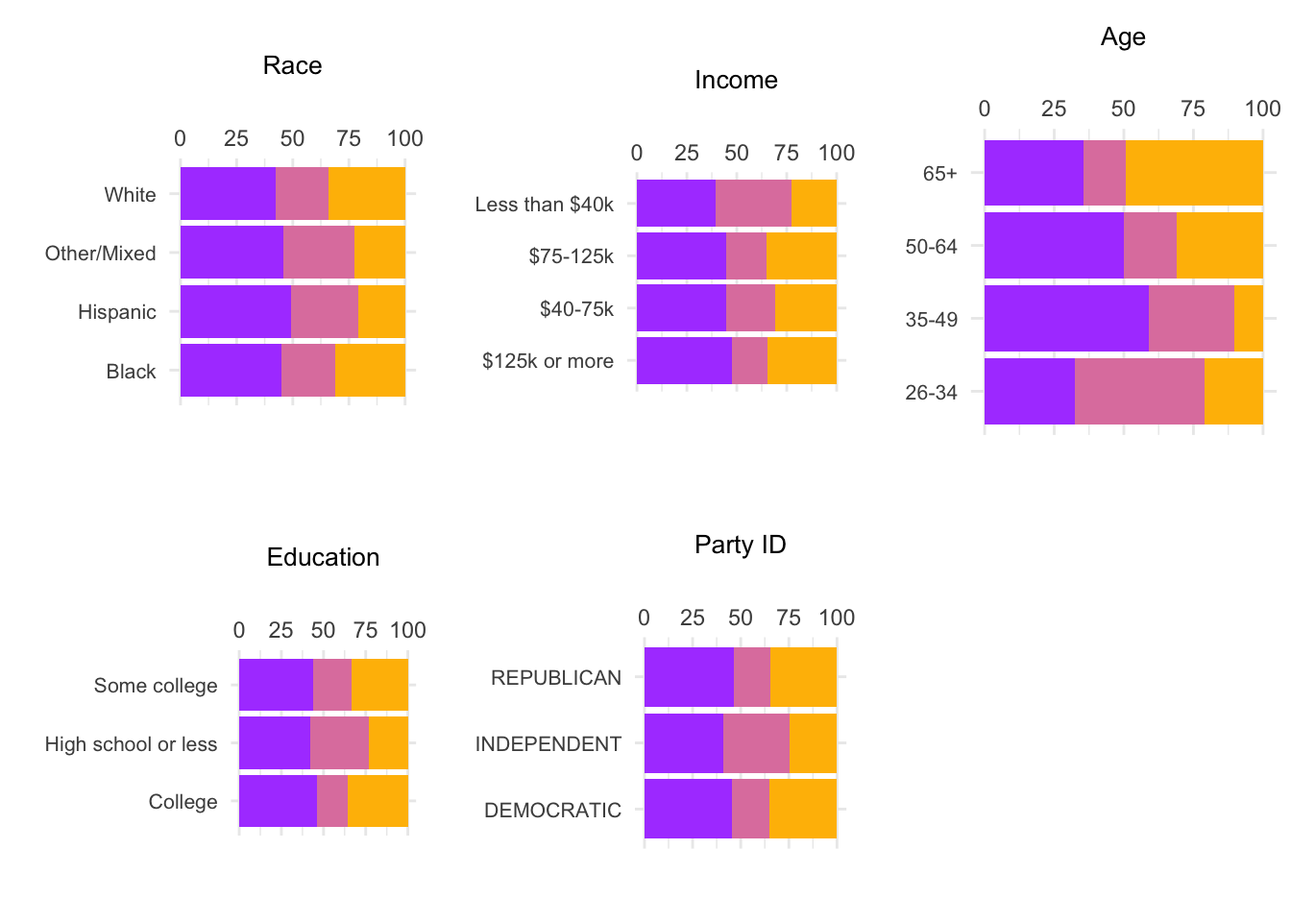
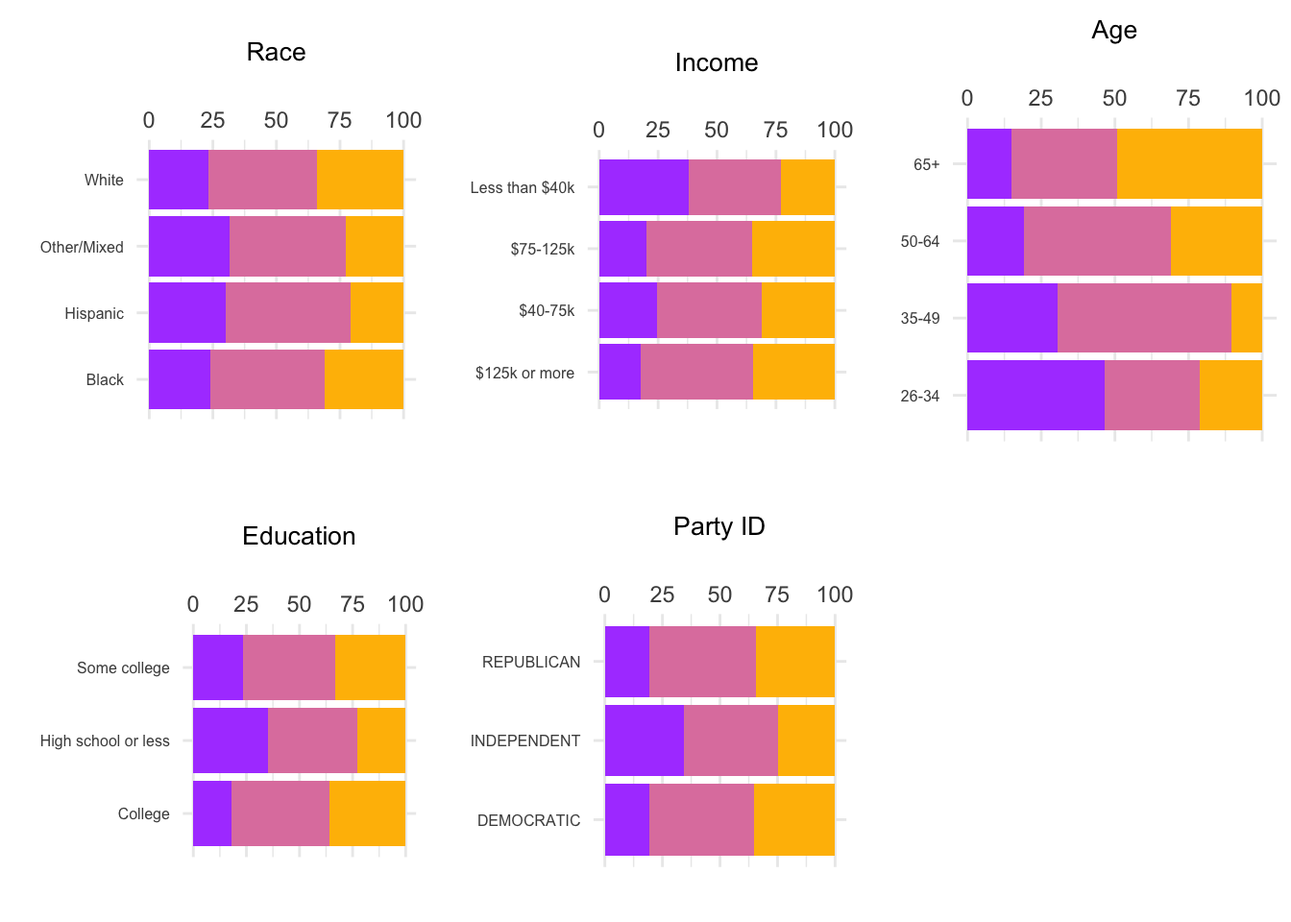
minor

diff --git a/docs/presentation-exercise/presentation-exercise.html b/docs/presentation-exercise/presentation-exercise.html
@@ -219,7 +219,7 @@ pre > code.sourceCode > span > a:first-child::before { text-decoration: underlin
 <span id="cb1-10"><a href="#cb1-10" aria-hidden="true" tabindex="-1"></a></span>
 <span id="cb1-11"><a href="#cb1-11" aria-hidden="true" tabindex="-1"></a><span class="co"># Read the CSV file without displaying column types</span></span>
 <span id="cb1-12"><a href="#cb1-12" aria-hidden="true" tabindex="-1"></a><span class="fu">suppressMessages</span>({</span>
-<span id="cb1-13"><a href="#cb1-13" aria-hidden="true" tabindex="-1"></a>  nonvoters <span class="ot">&lt;-</span> <span class="fu">read_csv</span>(<span class="st">"nonvoters_data.csv"</span>, <span class="at">show_col_types =</span> <span class="cn">FALSE</span>)</span>
+<span id="cb1-13"><a href="#cb1-13" aria-hidden="true" tabindex="-1"></a>  nonvoters <span class="ot">&lt;-</span> <span class="fu">read_csv</span>(<span class="st">"nonvoters_data1.csv"</span>, <span class="at">show_col_types =</span> <span class="cn">FALSE</span>)</span>
 <span id="cb1-14"><a href="#cb1-14" aria-hidden="true" tabindex="-1"></a>})</span></code><button title="Copy to Clipboard" class="code-copy-button"><i class="bi"></i></button></pre></div>
 </div>
 <div class="cell">
@@ -245,8 +245,8 @@ pre > code.sourceCode > span > a:first-child::before { text-decoration: underlin
 <span id="cb3-4"><a href="#cb3-4" aria-hidden="true" tabindex="-1"></a><span class="co"># Centered title theme</span></span>
 <span id="cb3-5"><a href="#cb3-5" aria-hidden="true" tabindex="-1"></a>centered_title_theme <span class="ot">&lt;-</span> <span class="fu">theme</span>(</span>
 <span id="cb3-6"><a href="#cb3-6" aria-hidden="true" tabindex="-1"></a>  <span class="at">plot.title =</span> <span class="fu">element_text</span>(<span class="at">hjust =</span> <span class="fl">0.5</span>, <span class="at">size =</span> <span class="dv">10</span>),  <span class="co"># Set title size to 10</span></span>
-<span id="cb3-7"><a href="#cb3-7" aria-hidden="true" tabindex="-1"></a>  <span class="at">axis.text.y =</span> <span class="fu">element_text</span>(<span class="at">size =</span> <span class="dv">8</span>),  <span class="co"># Set y-axis text size to 8</span></span>
-<span id="cb3-8"><a href="#cb3-8" aria-hidden="true" tabindex="-1"></a>  <span class="at">axis.title =</span> <span class="fu">element_text</span>(<span class="at">size =</span> <span class="dv">10</span>)  <span class="co"># Set axis title size to 10</span></span>
+<span id="cb3-7"><a href="#cb3-7" aria-hidden="true" tabindex="-1"></a>  <span class="at">axis.text.y =</span> <span class="fu">element_text</span>(<span class="at">size =</span> <span class="dv">6</span>),  <span class="co"># Set y-axis text size to 8</span></span>
+<span id="cb3-8"><a href="#cb3-8" aria-hidden="true" tabindex="-1"></a>  <span class="at">axis.title =</span> <span class="fu">element_text</span>(<span class="at">size =</span> <span class="dv">8</span>)  <span class="co"># Set axis title size to 10</span></span>
 <span id="cb3-9"><a href="#cb3-9" aria-hidden="true" tabindex="-1"></a>)</span>
 <span id="cb3-10"><a href="#cb3-10" aria-hidden="true" tabindex="-1"></a></span>
 <span id="cb3-11"><a href="#cb3-11" aria-hidden="true" tabindex="-1"></a><span class="co"># Create individual plots</span></span>
@@ -362,7 +362,7 @@ pre > code.sourceCode > span > a:first-child::before { text-decoration: underlin
 <span id="cb5-24"><a href="#cb5-24" aria-hidden="true" tabindex="-1"></a><span class="co"># Print the flextable</span></span>
 <span id="cb5-25"><a href="#cb5-25" aria-hidden="true" tabindex="-1"></a>ft</span></code><button title="Copy to Clipboard" class="code-copy-button"><i class="bi"></i></button></pre></div>
 <div class="cell-output-display">
-<div class="tabwid"><style>.cl-171f96c2{}.cl-171bb0fc{font-family:'Helvetica';font-size:11pt;font-weight:normal;font-style:normal;text-decoration:none;color:rgba(0, 0, 0, 1.00);background-color:transparent;}.cl-171d8f76{margin:0;text-align:left;border-bottom: 0 solid rgba(0, 0, 0, 1.00);border-top: 0 solid rgba(0, 0, 0, 1.00);border-left: 0 solid rgba(0, 0, 0, 1.00);border-right: 0 solid rgba(0, 0, 0, 1.00);padding-bottom:5pt;padding-top:5pt;padding-left:5pt;padding-right:5pt;line-height: 1;background-color:transparent;}.cl-171d8f77{margin:0;text-align:right;border-bottom: 0 solid rgba(0, 0, 0, 1.00);border-top: 0 solid rgba(0, 0, 0, 1.00);border-left: 0 solid rgba(0, 0, 0, 1.00);border-right: 0 solid rgba(0, 0, 0, 1.00);padding-bottom:5pt;padding-top:5pt;padding-left:5pt;padding-right:5pt;line-height: 1;background-color:transparent;}.cl-171d97fa{width:0.75in;background-color:transparent;vertical-align: middle;border-bottom: 1.5pt solid rgba(102, 102, 102, 1.00);border-top: 1.5pt solid rgba(102, 102, 102, 1.00);border-left: 0 solid rgba(0, 0, 0, 1.00);border-right: 0 solid rgba(0, 0, 0, 1.00);margin-bottom:0;margin-top:0;margin-left:0;margin-right:0;}.cl-171d9804{width:0.75in;background-color:transparent;vertical-align: middle;border-bottom: 1.5pt solid rgba(102, 102, 102, 1.00);border-top: 1.5pt solid rgba(102, 102, 102, 1.00);border-left: 0 solid rgba(0, 0, 0, 1.00);border-right: 0 solid rgba(0, 0, 0, 1.00);margin-bottom:0;margin-top:0;margin-left:0;margin-right:0;}.cl-171d9805{width:0.75in;background-color:transparent;vertical-align: middle;border-bottom: 0 solid rgba(0, 0, 0, 1.00);border-top: 0 solid rgba(0, 0, 0, 1.00);border-left: 0 solid rgba(0, 0, 0, 1.00);border-right: 0 solid rgba(0, 0, 0, 1.00);margin-bottom:0;margin-top:0;margin-left:0;margin-right:0;}.cl-171d9806{width:0.75in;background-color:transparent;vertical-align: middle;border-bottom: 0 solid rgba(0, 0, 0, 1.00);border-top: 0 solid rgba(0, 0, 0, 1.00);border-left: 0 solid rgba(0, 0, 0, 1.00);border-right: 0 solid rgba(0, 0, 0, 1.00);margin-bottom:0;margin-top:0;margin-left:0;margin-right:0;}.cl-171d980e{width:0.75in;background-color:transparent;vertical-align: middle;border-bottom: 1.5pt solid rgba(102, 102, 102, 1.00);border-top: 0 solid rgba(0, 0, 0, 1.00);border-left: 0 solid rgba(0, 0, 0, 1.00);border-right: 0 solid rgba(0, 0, 0, 1.00);margin-bottom:0;margin-top:0;margin-left:0;margin-right:0;}.cl-171d980f{width:0.75in;background-color:transparent;vertical-align: middle;border-bottom: 1.5pt solid rgba(102, 102, 102, 1.00);border-top: 0 solid rgba(0, 0, 0, 1.00);border-left: 0 solid rgba(0, 0, 0, 1.00);border-right: 0 solid rgba(0, 0, 0, 1.00);margin-bottom:0;margin-top:0;margin-left:0;margin-right:0;}</style><table data-quarto-disable-processing="true" class="cl-171f96c2"><thead><tr style="overflow-wrap:break-word;"><th class="cl-171d97fa"><p class="cl-171d8f76"><span class="cl-171bb0fc">PLAYER</span></p></th><th class="cl-171d9804"><p class="cl-171d8f77"><span class="cl-171bb0fc">SEASON</span></p></th><th class="cl-171d9804"><p class="cl-171d8f77"><span class="cl-171bb0fc">AGE</span></p></th><th class="cl-171d97fa"><p class="cl-171d8f76"><span class="cl-171bb0fc">TEAM</span></p></th><th class="cl-171d9804"><p class="cl-171d8f77"><span class="cl-171bb0fc">PER</span></p></th><th class="cl-171d9804"><p class="cl-171d8f77"><span class="cl-171bb0fc">WS40</span></p></th><th class="cl-171d9804"><p class="cl-171d8f77"><span class="cl-171bb0fc">COMPOSITE_RATING</span></p></th></tr></thead><tbody><tr style="overflow-wrap:break-word;"><td class="cl-171d9805"><p class="cl-171d8f76"><span class="cl-171bb0fc">Lauren Jackson</span></p></td><td class="cl-171d9806"><p class="cl-171d8f77"><span class="cl-171bb0fc">2,006</span></p></td><td class="cl-171d9806"><p class="cl-171d8f77"><span class="cl-171bb0fc">25</span></p></td><td class="cl-171d9805"><p class="cl-171d8f76"><span class="cl-171bb0fc">SEA</span></p></td><td class="cl-171d9806"><p class="cl-171d8f77"><span class="cl-171bb0fc">34.7</span></p></td><td class="cl-171d9806"><p class="cl-171d8f77"><span class="cl-171bb0fc">0.416</span></p></td><td class="cl-171d9806"><p class="cl-171d8f77"><span class="cl-171bb0fc">11.5</span></p></td></tr><tr style="overflow-wrap:break-word;"><td class="cl-171d9805"><p class="cl-171d8f76"><span class="cl-171bb0fc">Cynthia Cooper</span></p></td><td class="cl-171d9806"><p class="cl-171d8f77"><span class="cl-171bb0fc">1,998</span></p></td><td class="cl-171d9806"><p class="cl-171d8f77"><span class="cl-171bb0fc">35</span></p></td><td class="cl-171d9805"><p class="cl-171d8f76"><span class="cl-171bb0fc">HOU</span></p></td><td class="cl-171d9806"><p class="cl-171d8f77"><span class="cl-171bb0fc">31.1</span></p></td><td class="cl-171d9806"><p class="cl-171d8f77"><span class="cl-171bb0fc">0.382</span></p></td><td class="cl-171d9806"><p class="cl-171d8f77"><span class="cl-171bb0fc">10.7</span></p></td></tr><tr style="overflow-wrap:break-word;"><td class="cl-171d9805"><p class="cl-171d8f76"><span class="cl-171bb0fc">Cynthia Cooper</span></p></td><td class="cl-171d9806"><p class="cl-171d8f77"><span class="cl-171bb0fc">1,997</span></p></td><td class="cl-171d9806"><p class="cl-171d8f77"><span class="cl-171bb0fc">34</span></p></td><td class="cl-171d9805"><p class="cl-171d8f76"><span class="cl-171bb0fc">HOU</span></p></td><td class="cl-171d9806"><p class="cl-171d8f77"><span class="cl-171bb0fc">32.2</span></p></td><td class="cl-171d9806"><p class="cl-171d8f77"><span class="cl-171bb0fc">0.385</span></p></td><td class="cl-171d9806"><p class="cl-171d8f77"><span class="cl-171bb0fc">10.6</span></p></td></tr><tr style="overflow-wrap:break-word;"><td class="cl-171d9805"><p class="cl-171d8f76"><span class="cl-171bb0fc">Sheryl Swoopes</span></p></td><td class="cl-171d9806"><p class="cl-171d8f77"><span class="cl-171bb0fc">2,000</span></p></td><td class="cl-171d9806"><p class="cl-171d8f77"><span class="cl-171bb0fc">29</span></p></td><td class="cl-171d9805"><p class="cl-171d8f76"><span class="cl-171bb0fc">HOU</span></p></td><td class="cl-171d9806"><p class="cl-171d8f77"><span class="cl-171bb0fc">32.0</span></p></td><td class="cl-171d9806"><p class="cl-171d8f77"><span class="cl-171bb0fc">0.361</span></p></td><td class="cl-171d9806"><p class="cl-171d8f77"><span class="cl-171bb0fc">10.5</span></p></td></tr><tr style="overflow-wrap:break-word;"><td class="cl-171d9805"><p class="cl-171d8f76"><span class="cl-171bb0fc">Lauren Jackson</span></p></td><td class="cl-171d9806"><p class="cl-171d8f77"><span class="cl-171bb0fc">2,007</span></p></td><td class="cl-171d9806"><p class="cl-171d8f77"><span class="cl-171bb0fc">26</span></p></td><td class="cl-171d9805"><p class="cl-171d8f76"><span class="cl-171bb0fc">SEA</span></p></td><td class="cl-171d9806"><p class="cl-171d8f77"><span class="cl-171bb0fc">35.0</span></p></td><td class="cl-171d9806"><p class="cl-171d8f77"><span class="cl-171bb0fc">0.373</span></p></td><td class="cl-171d9806"><p class="cl-171d8f77"><span class="cl-171bb0fc">10.4</span></p></td></tr><tr style="overflow-wrap:break-word;"><td class="cl-171d9805"><p class="cl-171d8f76"><span class="cl-171bb0fc">Nneka Ogwumike</span></p></td><td class="cl-171d9806"><p class="cl-171d8f77"><span class="cl-171bb0fc">2,016</span></p></td><td class="cl-171d9806"><p class="cl-171d8f77"><span class="cl-171bb0fc">25</span></p></td><td class="cl-171d9805"><p class="cl-171d8f76"><span class="cl-171bb0fc">LAS</span></p></td><td class="cl-171d9806"><p class="cl-171d8f77"><span class="cl-171bb0fc">31.3</span></p></td><td class="cl-171d9806"><p class="cl-171d8f77"><span class="cl-171bb0fc">0.370</span></p></td><td class="cl-171d9806"><p class="cl-171d8f77"><span class="cl-171bb0fc">10.3</span></p></td></tr><tr style="overflow-wrap:break-word;"><td class="cl-171d9805"><p class="cl-171d8f76"><span class="cl-171bb0fc">Sylvia Fowles</span></p></td><td class="cl-171d9806"><p class="cl-171d8f77"><span class="cl-171bb0fc">2,017</span></p></td><td class="cl-171d9806"><p class="cl-171d8f77"><span class="cl-171bb0fc">31</span></p></td><td class="cl-171d9805"><p class="cl-171d8f76"><span class="cl-171bb0fc">MIN</span></p></td><td class="cl-171d9806"><p class="cl-171d8f77"><span class="cl-171bb0fc">30.8</span></p></td><td class="cl-171d9806"><p class="cl-171d8f77"><span class="cl-171bb0fc">0.350</span></p></td><td class="cl-171d9806"><p class="cl-171d8f77"><span class="cl-171bb0fc">10.0</span></p></td></tr><tr style="overflow-wrap:break-word;"><td class="cl-171d9805"><p class="cl-171d8f76"><span class="cl-171bb0fc">Elena Delle Donne</span></p></td><td class="cl-171d9806"><p class="cl-171d8f77"><span class="cl-171bb0fc">2,019</span></p></td><td class="cl-171d9806"><p class="cl-171d8f77"><span class="cl-171bb0fc">29</span></p></td><td class="cl-171d9805"><p class="cl-171d8f76"><span class="cl-171bb0fc">WAS</span></p></td><td class="cl-171d9806"><p class="cl-171d8f77"><span class="cl-171bb0fc">31.8</span></p></td><td class="cl-171d9806"><p class="cl-171d8f77"><span class="cl-171bb0fc">0.343</span></p></td><td class="cl-171d9806"><p class="cl-171d8f77"><span class="cl-171bb0fc">9.9</span></p></td></tr><tr style="overflow-wrap:break-word;"><td class="cl-171d9805"><p class="cl-171d8f76"><span class="cl-171bb0fc">Elena Delle Donne</span></p></td><td class="cl-171d9806"><p class="cl-171d8f77"><span class="cl-171bb0fc">2,015</span></p></td><td class="cl-171d9806"><p class="cl-171d8f77"><span class="cl-171bb0fc">25</span></p></td><td class="cl-171d9805"><p class="cl-171d8f76"><span class="cl-171bb0fc">CHI</span></p></td><td class="cl-171d9806"><p class="cl-171d8f77"><span class="cl-171bb0fc">32.8</span></p></td><td class="cl-171d9806"><p class="cl-171d8f77"><span class="cl-171bb0fc">0.346</span></p></td><td class="cl-171d9806"><p class="cl-171d8f77"><span class="cl-171bb0fc">9.4</span></p></td></tr><tr style="overflow-wrap:break-word;"><td class="cl-171d9805"><p class="cl-171d8f76"><span class="cl-171bb0fc">Lauren Jackson</span></p></td><td class="cl-171d9806"><p class="cl-171d8f77"><span class="cl-171bb0fc">2,003</span></p></td><td class="cl-171d9806"><p class="cl-171d8f77"><span class="cl-171bb0fc">22</span></p></td><td class="cl-171d9805"><p class="cl-171d8f76"><span class="cl-171bb0fc">SEA</span></p></td><td class="cl-171d9806"><p class="cl-171d8f77"><span class="cl-171bb0fc">32.1</span></p></td><td class="cl-171d9806"><p class="cl-171d8f77"><span class="cl-171bb0fc">0.333</span></p></td><td class="cl-171d9806"><p class="cl-171d8f77"><span class="cl-171bb0fc">9.2</span></p></td></tr><tr style="overflow-wrap:break-word;"><td class="cl-171d9805"><p class="cl-171d8f76"><span class="cl-171bb0fc">Cynthia Cooper</span></p></td><td class="cl-171d9806"><p class="cl-171d8f77"><span class="cl-171bb0fc">1,999</span></p></td><td class="cl-171d9806"><p class="cl-171d8f77"><span class="cl-171bb0fc">36</span></p></td><td class="cl-171d9805"><p class="cl-171d8f76"><span class="cl-171bb0fc">HOU</span></p></td><td class="cl-171d9806"><p class="cl-171d8f77"><span class="cl-171bb0fc">29.5</span></p></td><td class="cl-171d9806"><p class="cl-171d8f77"><span class="cl-171bb0fc">0.335</span></p></td><td class="cl-171d9806"><p class="cl-171d8f77"><span class="cl-171bb0fc">9.2</span></p></td></tr><tr style="overflow-wrap:break-word;"><td class="cl-171d9805"><p class="cl-171d8f76"><span class="cl-171bb0fc">Yolanda Griffith</span></p></td><td class="cl-171d9806"><p class="cl-171d8f77"><span class="cl-171bb0fc">1,999</span></p></td><td class="cl-171d9806"><p class="cl-171d8f77"><span class="cl-171bb0fc">29</span></p></td><td class="cl-171d9805"><p class="cl-171d8f76"><span class="cl-171bb0fc">SAC</span></p></td><td class="cl-171d9806"><p class="cl-171d8f77"><span class="cl-171bb0fc">31.9</span></p></td><td class="cl-171d9806"><p class="cl-171d8f77"><span class="cl-171bb0fc">0.330</span></p></td><td class="cl-171d9806"><p class="cl-171d8f77"><span class="cl-171bb0fc">9.1</span></p></td></tr><tr style="overflow-wrap:break-word;"><td class="cl-171d9805"><p class="cl-171d8f76"><span class="cl-171bb0fc">Lauren Jackson</span></p></td><td class="cl-171d9806"><p class="cl-171d8f77"><span class="cl-171bb0fc">2,010</span></p></td><td class="cl-171d9806"><p class="cl-171d8f77"><span class="cl-171bb0fc">29</span></p></td><td class="cl-171d9805"><p class="cl-171d8f76"><span class="cl-171bb0fc">SEA</span></p></td><td class="cl-171d9806"><p class="cl-171d8f77"><span class="cl-171bb0fc">27.9</span></p></td><td class="cl-171d9806"><p class="cl-171d8f77"><span class="cl-171bb0fc">0.333</span></p></td><td class="cl-171d9806"><p class="cl-171d8f77"><span class="cl-171bb0fc">8.8</span></p></td></tr><tr style="overflow-wrap:break-word;"><td class="cl-171d9805"><p class="cl-171d8f76"><span class="cl-171bb0fc">Tamika Catchings</span></p></td><td class="cl-171d9806"><p class="cl-171d8f77"><span class="cl-171bb0fc">2,007</span></p></td><td class="cl-171d9806"><p class="cl-171d8f77"><span class="cl-171bb0fc">27</span></p></td><td class="cl-171d9805"><p class="cl-171d8f76"><span class="cl-171bb0fc">IND</span></p></td><td class="cl-171d9806"><p class="cl-171d8f77"><span class="cl-171bb0fc">29.4</span></p></td><td class="cl-171d9806"><p class="cl-171d8f77"><span class="cl-171bb0fc">0.325</span></p></td><td class="cl-171d9806"><p class="cl-171d8f77"><span class="cl-171bb0fc">8.6</span></p></td></tr><tr style="overflow-wrap:break-word;"><td class="cl-171d980e"><p class="cl-171d8f76"><span class="cl-171bb0fc">Nneka Ogwumike</span></p></td><td class="cl-171d980f"><p class="cl-171d8f77"><span class="cl-171bb0fc">2,017</span></p></td><td class="cl-171d980f"><p class="cl-171d8f77"><span class="cl-171bb0fc">26</span></p></td><td class="cl-171d980e"><p class="cl-171d8f76"><span class="cl-171bb0fc">LAS</span></p></td><td class="cl-171d980f"><p class="cl-171d8f77"><span class="cl-171bb0fc">28.1</span></p></td><td class="cl-171d980f"><p class="cl-171d8f77"><span class="cl-171bb0fc">0.321</span></p></td><td class="cl-171d980f"><p class="cl-171d8f77"><span class="cl-171bb0fc">8.5</span></p></td></tr></tbody></table></div>
+<div class="tabwid"><style>.cl-6ecf20d0{}.cl-6ecb3650{font-family:'Helvetica';font-size:11pt;font-weight:normal;font-style:normal;text-decoration:none;color:rgba(0, 0, 0, 1.00);background-color:transparent;}.cl-6ecd291a{margin:0;text-align:left;border-bottom: 0 solid rgba(0, 0, 0, 1.00);border-top: 0 solid rgba(0, 0, 0, 1.00);border-left: 0 solid rgba(0, 0, 0, 1.00);border-right: 0 solid rgba(0, 0, 0, 1.00);padding-bottom:5pt;padding-top:5pt;padding-left:5pt;padding-right:5pt;line-height: 1;background-color:transparent;}.cl-6ecd291b{margin:0;text-align:right;border-bottom: 0 solid rgba(0, 0, 0, 1.00);border-top: 0 solid rgba(0, 0, 0, 1.00);border-left: 0 solid rgba(0, 0, 0, 1.00);border-right: 0 solid rgba(0, 0, 0, 1.00);padding-bottom:5pt;padding-top:5pt;padding-left:5pt;padding-right:5pt;line-height: 1;background-color:transparent;}.cl-6ecd328e{width:0.75in;background-color:transparent;vertical-align: middle;border-bottom: 1.5pt solid rgba(102, 102, 102, 1.00);border-top: 1.5pt solid rgba(102, 102, 102, 1.00);border-left: 0 solid rgba(0, 0, 0, 1.00);border-right: 0 solid rgba(0, 0, 0, 1.00);margin-bottom:0;margin-top:0;margin-left:0;margin-right:0;}.cl-6ecd328f{width:0.75in;background-color:transparent;vertical-align: middle;border-bottom: 1.5pt solid rgba(102, 102, 102, 1.00);border-top: 1.5pt solid rgba(102, 102, 102, 1.00);border-left: 0 solid rgba(0, 0, 0, 1.00);border-right: 0 solid rgba(0, 0, 0, 1.00);margin-bottom:0;margin-top:0;margin-left:0;margin-right:0;}.cl-6ecd3298{width:0.75in;background-color:transparent;vertical-align: middle;border-bottom: 0 solid rgba(0, 0, 0, 1.00);border-top: 0 solid rgba(0, 0, 0, 1.00);border-left: 0 solid rgba(0, 0, 0, 1.00);border-right: 0 solid rgba(0, 0, 0, 1.00);margin-bottom:0;margin-top:0;margin-left:0;margin-right:0;}.cl-6ecd3299{width:0.75in;background-color:transparent;vertical-align: middle;border-bottom: 0 solid rgba(0, 0, 0, 1.00);border-top: 0 solid rgba(0, 0, 0, 1.00);border-left: 0 solid rgba(0, 0, 0, 1.00);border-right: 0 solid rgba(0, 0, 0, 1.00);margin-bottom:0;margin-top:0;margin-left:0;margin-right:0;}.cl-6ecd32a2{width:0.75in;background-color:transparent;vertical-align: middle;border-bottom: 1.5pt solid rgba(102, 102, 102, 1.00);border-top: 0 solid rgba(0, 0, 0, 1.00);border-left: 0 solid rgba(0, 0, 0, 1.00);border-right: 0 solid rgba(0, 0, 0, 1.00);margin-bottom:0;margin-top:0;margin-left:0;margin-right:0;}.cl-6ecd32a3{width:0.75in;background-color:transparent;vertical-align: middle;border-bottom: 1.5pt solid rgba(102, 102, 102, 1.00);border-top: 0 solid rgba(0, 0, 0, 1.00);border-left: 0 solid rgba(0, 0, 0, 1.00);border-right: 0 solid rgba(0, 0, 0, 1.00);margin-bottom:0;margin-top:0;margin-left:0;margin-right:0;}</style><table data-quarto-disable-processing="true" class="cl-6ecf20d0"><thead><tr style="overflow-wrap:break-word;"><th class="cl-6ecd328e"><p class="cl-6ecd291a"><span class="cl-6ecb3650">PLAYER</span></p></th><th class="cl-6ecd328f"><p class="cl-6ecd291b"><span class="cl-6ecb3650">SEASON</span></p></th><th class="cl-6ecd328f"><p class="cl-6ecd291b"><span class="cl-6ecb3650">AGE</span></p></th><th class="cl-6ecd328e"><p class="cl-6ecd291a"><span class="cl-6ecb3650">TEAM</span></p></th><th class="cl-6ecd328f"><p class="cl-6ecd291b"><span class="cl-6ecb3650">PER</span></p></th><th class="cl-6ecd328f"><p class="cl-6ecd291b"><span class="cl-6ecb3650">WS40</span></p></th><th class="cl-6ecd328f"><p class="cl-6ecd291b"><span class="cl-6ecb3650">COMPOSITE_RATING</span></p></th></tr></thead><tbody><tr style="overflow-wrap:break-word;"><td class="cl-6ecd3298"><p class="cl-6ecd291a"><span class="cl-6ecb3650">Lauren Jackson</span></p></td><td class="cl-6ecd3299"><p class="cl-6ecd291b"><span class="cl-6ecb3650">2,006</span></p></td><td class="cl-6ecd3299"><p class="cl-6ecd291b"><span class="cl-6ecb3650">25</span></p></td><td class="cl-6ecd3298"><p class="cl-6ecd291a"><span class="cl-6ecb3650">SEA</span></p></td><td class="cl-6ecd3299"><p class="cl-6ecd291b"><span class="cl-6ecb3650">34.7</span></p></td><td class="cl-6ecd3299"><p class="cl-6ecd291b"><span class="cl-6ecb3650">0.416</span></p></td><td class="cl-6ecd3299"><p class="cl-6ecd291b"><span class="cl-6ecb3650">11.5</span></p></td></tr><tr style="overflow-wrap:break-word;"><td class="cl-6ecd3298"><p class="cl-6ecd291a"><span class="cl-6ecb3650">Cynthia Cooper</span></p></td><td class="cl-6ecd3299"><p class="cl-6ecd291b"><span class="cl-6ecb3650">1,998</span></p></td><td class="cl-6ecd3299"><p class="cl-6ecd291b"><span class="cl-6ecb3650">35</span></p></td><td class="cl-6ecd3298"><p class="cl-6ecd291a"><span class="cl-6ecb3650">HOU</span></p></td><td class="cl-6ecd3299"><p class="cl-6ecd291b"><span class="cl-6ecb3650">31.1</span></p></td><td class="cl-6ecd3299"><p class="cl-6ecd291b"><span class="cl-6ecb3650">0.382</span></p></td><td class="cl-6ecd3299"><p class="cl-6ecd291b"><span class="cl-6ecb3650">10.7</span></p></td></tr><tr style="overflow-wrap:break-word;"><td class="cl-6ecd3298"><p class="cl-6ecd291a"><span class="cl-6ecb3650">Cynthia Cooper</span></p></td><td class="cl-6ecd3299"><p class="cl-6ecd291b"><span class="cl-6ecb3650">1,997</span></p></td><td class="cl-6ecd3299"><p class="cl-6ecd291b"><span class="cl-6ecb3650">34</span></p></td><td class="cl-6ecd3298"><p class="cl-6ecd291a"><span class="cl-6ecb3650">HOU</span></p></td><td class="cl-6ecd3299"><p class="cl-6ecd291b"><span class="cl-6ecb3650">32.2</span></p></td><td class="cl-6ecd3299"><p class="cl-6ecd291b"><span class="cl-6ecb3650">0.385</span></p></td><td class="cl-6ecd3299"><p class="cl-6ecd291b"><span class="cl-6ecb3650">10.6</span></p></td></tr><tr style="overflow-wrap:break-word;"><td class="cl-6ecd3298"><p class="cl-6ecd291a"><span class="cl-6ecb3650">Sheryl Swoopes</span></p></td><td class="cl-6ecd3299"><p class="cl-6ecd291b"><span class="cl-6ecb3650">2,000</span></p></td><td class="cl-6ecd3299"><p class="cl-6ecd291b"><span class="cl-6ecb3650">29</span></p></td><td class="cl-6ecd3298"><p class="cl-6ecd291a"><span class="cl-6ecb3650">HOU</span></p></td><td class="cl-6ecd3299"><p class="cl-6ecd291b"><span class="cl-6ecb3650">32.0</span></p></td><td class="cl-6ecd3299"><p class="cl-6ecd291b"><span class="cl-6ecb3650">0.361</span></p></td><td class="cl-6ecd3299"><p class="cl-6ecd291b"><span class="cl-6ecb3650">10.5</span></p></td></tr><tr style="overflow-wrap:break-word;"><td class="cl-6ecd3298"><p class="cl-6ecd291a"><span class="cl-6ecb3650">Lauren Jackson</span></p></td><td class="cl-6ecd3299"><p class="cl-6ecd291b"><span class="cl-6ecb3650">2,007</span></p></td><td class="cl-6ecd3299"><p class="cl-6ecd291b"><span class="cl-6ecb3650">26</span></p></td><td class="cl-6ecd3298"><p class="cl-6ecd291a"><span class="cl-6ecb3650">SEA</span></p></td><td class="cl-6ecd3299"><p class="cl-6ecd291b"><span class="cl-6ecb3650">35.0</span></p></td><td class="cl-6ecd3299"><p class="cl-6ecd291b"><span class="cl-6ecb3650">0.373</span></p></td><td class="cl-6ecd3299"><p class="cl-6ecd291b"><span class="cl-6ecb3650">10.4</span></p></td></tr><tr style="overflow-wrap:break-word;"><td class="cl-6ecd3298"><p class="cl-6ecd291a"><span class="cl-6ecb3650">Nneka Ogwumike</span></p></td><td class="cl-6ecd3299"><p class="cl-6ecd291b"><span class="cl-6ecb3650">2,016</span></p></td><td class="cl-6ecd3299"><p class="cl-6ecd291b"><span class="cl-6ecb3650">25</span></p></td><td class="cl-6ecd3298"><p class="cl-6ecd291a"><span class="cl-6ecb3650">LAS</span></p></td><td class="cl-6ecd3299"><p class="cl-6ecd291b"><span class="cl-6ecb3650">31.3</span></p></td><td class="cl-6ecd3299"><p class="cl-6ecd291b"><span class="cl-6ecb3650">0.370</span></p></td><td class="cl-6ecd3299"><p class="cl-6ecd291b"><span class="cl-6ecb3650">10.3</span></p></td></tr><tr style="overflow-wrap:break-word;"><td class="cl-6ecd3298"><p class="cl-6ecd291a"><span class="cl-6ecb3650">Sylvia Fowles</span></p></td><td class="cl-6ecd3299"><p class="cl-6ecd291b"><span class="cl-6ecb3650">2,017</span></p></td><td class="cl-6ecd3299"><p class="cl-6ecd291b"><span class="cl-6ecb3650">31</span></p></td><td class="cl-6ecd3298"><p class="cl-6ecd291a"><span class="cl-6ecb3650">MIN</span></p></td><td class="cl-6ecd3299"><p class="cl-6ecd291b"><span class="cl-6ecb3650">30.8</span></p></td><td class="cl-6ecd3299"><p class="cl-6ecd291b"><span class="cl-6ecb3650">0.350</span></p></td><td class="cl-6ecd3299"><p class="cl-6ecd291b"><span class="cl-6ecb3650">10.0</span></p></td></tr><tr style="overflow-wrap:break-word;"><td class="cl-6ecd3298"><p class="cl-6ecd291a"><span class="cl-6ecb3650">Elena Delle Donne</span></p></td><td class="cl-6ecd3299"><p class="cl-6ecd291b"><span class="cl-6ecb3650">2,019</span></p></td><td class="cl-6ecd3299"><p class="cl-6ecd291b"><span class="cl-6ecb3650">29</span></p></td><td class="cl-6ecd3298"><p class="cl-6ecd291a"><span class="cl-6ecb3650">WAS</span></p></td><td class="cl-6ecd3299"><p class="cl-6ecd291b"><span class="cl-6ecb3650">31.8</span></p></td><td class="cl-6ecd3299"><p class="cl-6ecd291b"><span class="cl-6ecb3650">0.343</span></p></td><td class="cl-6ecd3299"><p class="cl-6ecd291b"><span class="cl-6ecb3650">9.9</span></p></td></tr><tr style="overflow-wrap:break-word;"><td class="cl-6ecd3298"><p class="cl-6ecd291a"><span class="cl-6ecb3650">Elena Delle Donne</span></p></td><td class="cl-6ecd3299"><p class="cl-6ecd291b"><span class="cl-6ecb3650">2,015</span></p></td><td class="cl-6ecd3299"><p class="cl-6ecd291b"><span class="cl-6ecb3650">25</span></p></td><td class="cl-6ecd3298"><p class="cl-6ecd291a"><span class="cl-6ecb3650">CHI</span></p></td><td class="cl-6ecd3299"><p class="cl-6ecd291b"><span class="cl-6ecb3650">32.8</span></p></td><td class="cl-6ecd3299"><p class="cl-6ecd291b"><span class="cl-6ecb3650">0.346</span></p></td><td class="cl-6ecd3299"><p class="cl-6ecd291b"><span class="cl-6ecb3650">9.4</span></p></td></tr><tr style="overflow-wrap:break-word;"><td class="cl-6ecd3298"><p class="cl-6ecd291a"><span class="cl-6ecb3650">Lauren Jackson</span></p></td><td class="cl-6ecd3299"><p class="cl-6ecd291b"><span class="cl-6ecb3650">2,003</span></p></td><td class="cl-6ecd3299"><p class="cl-6ecd291b"><span class="cl-6ecb3650">22</span></p></td><td class="cl-6ecd3298"><p class="cl-6ecd291a"><span class="cl-6ecb3650">SEA</span></p></td><td class="cl-6ecd3299"><p class="cl-6ecd291b"><span class="cl-6ecb3650">32.1</span></p></td><td class="cl-6ecd3299"><p class="cl-6ecd291b"><span class="cl-6ecb3650">0.333</span></p></td><td class="cl-6ecd3299"><p class="cl-6ecd291b"><span class="cl-6ecb3650">9.2</span></p></td></tr><tr style="overflow-wrap:break-word;"><td class="cl-6ecd3298"><p class="cl-6ecd291a"><span class="cl-6ecb3650">Cynthia Cooper</span></p></td><td class="cl-6ecd3299"><p class="cl-6ecd291b"><span class="cl-6ecb3650">1,999</span></p></td><td class="cl-6ecd3299"><p class="cl-6ecd291b"><span class="cl-6ecb3650">36</span></p></td><td class="cl-6ecd3298"><p class="cl-6ecd291a"><span class="cl-6ecb3650">HOU</span></p></td><td class="cl-6ecd3299"><p class="cl-6ecd291b"><span class="cl-6ecb3650">29.5</span></p></td><td class="cl-6ecd3299"><p class="cl-6ecd291b"><span class="cl-6ecb3650">0.335</span></p></td><td class="cl-6ecd3299"><p class="cl-6ecd291b"><span class="cl-6ecb3650">9.2</span></p></td></tr><tr style="overflow-wrap:break-word;"><td class="cl-6ecd3298"><p class="cl-6ecd291a"><span class="cl-6ecb3650">Yolanda Griffith</span></p></td><td class="cl-6ecd3299"><p class="cl-6ecd291b"><span class="cl-6ecb3650">1,999</span></p></td><td class="cl-6ecd3299"><p class="cl-6ecd291b"><span class="cl-6ecb3650">29</span></p></td><td class="cl-6ecd3298"><p class="cl-6ecd291a"><span class="cl-6ecb3650">SAC</span></p></td><td class="cl-6ecd3299"><p class="cl-6ecd291b"><span class="cl-6ecb3650">31.9</span></p></td><td class="cl-6ecd3299"><p class="cl-6ecd291b"><span class="cl-6ecb3650">0.330</span></p></td><td class="cl-6ecd3299"><p class="cl-6ecd291b"><span class="cl-6ecb3650">9.1</span></p></td></tr><tr style="overflow-wrap:break-word;"><td class="cl-6ecd3298"><p class="cl-6ecd291a"><span class="cl-6ecb3650">Lauren Jackson</span></p></td><td class="cl-6ecd3299"><p class="cl-6ecd291b"><span class="cl-6ecb3650">2,010</span></p></td><td class="cl-6ecd3299"><p class="cl-6ecd291b"><span class="cl-6ecb3650">29</span></p></td><td class="cl-6ecd3298"><p class="cl-6ecd291a"><span class="cl-6ecb3650">SEA</span></p></td><td class="cl-6ecd3299"><p class="cl-6ecd291b"><span class="cl-6ecb3650">27.9</span></p></td><td class="cl-6ecd3299"><p class="cl-6ecd291b"><span class="cl-6ecb3650">0.333</span></p></td><td class="cl-6ecd3299"><p class="cl-6ecd291b"><span class="cl-6ecb3650">8.8</span></p></td></tr><tr style="overflow-wrap:break-word;"><td class="cl-6ecd3298"><p class="cl-6ecd291a"><span class="cl-6ecb3650">Tamika Catchings</span></p></td><td class="cl-6ecd3299"><p class="cl-6ecd291b"><span class="cl-6ecb3650">2,007</span></p></td><td class="cl-6ecd3299"><p class="cl-6ecd291b"><span class="cl-6ecb3650">27</span></p></td><td class="cl-6ecd3298"><p class="cl-6ecd291a"><span class="cl-6ecb3650">IND</span></p></td><td class="cl-6ecd3299"><p class="cl-6ecd291b"><span class="cl-6ecb3650">29.4</span></p></td><td class="cl-6ecd3299"><p class="cl-6ecd291b"><span class="cl-6ecb3650">0.325</span></p></td><td class="cl-6ecd3299"><p class="cl-6ecd291b"><span class="cl-6ecb3650">8.6</span></p></td></tr><tr style="overflow-wrap:break-word;"><td class="cl-6ecd32a2"><p class="cl-6ecd291a"><span class="cl-6ecb3650">Nneka Ogwumike</span></p></td><td class="cl-6ecd32a3"><p class="cl-6ecd291b"><span class="cl-6ecb3650">2,017</span></p></td><td class="cl-6ecd32a3"><p class="cl-6ecd291b"><span class="cl-6ecb3650">26</span></p></td><td class="cl-6ecd32a2"><p class="cl-6ecd291a"><span class="cl-6ecb3650">LAS</span></p></td><td class="cl-6ecd32a3"><p class="cl-6ecd291b"><span class="cl-6ecb3650">28.1</span></p></td><td class="cl-6ecd32a3"><p class="cl-6ecd291b"><span class="cl-6ecb3650">0.321</span></p></td><td class="cl-6ecd32a3"><p class="cl-6ecd291b"><span class="cl-6ecb3650">8.5</span></p></td></tr></tbody></table></div>
 </div>
 </div>
 <p>The table shows Cooper-Dyke’s early WNBA seasons are among the best ever Best single-season composite ratings — based on a mix of player efficiency rating (PER) and win shares per 40 minutes — for WNBA players who played at least 375 minutes that season, 1997-2019</p>
